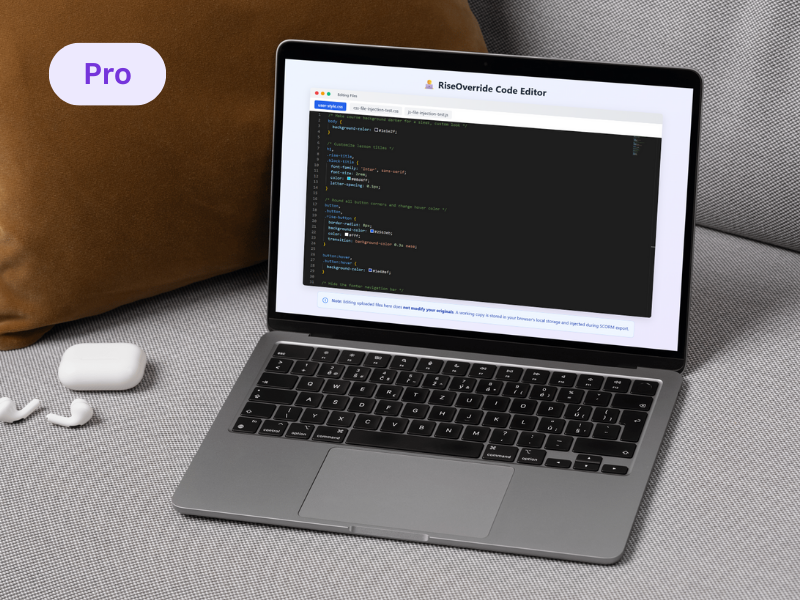
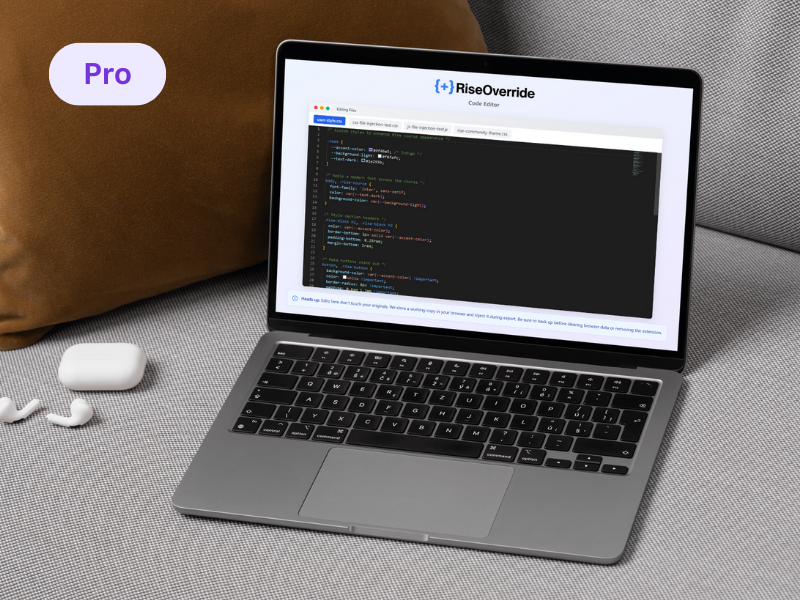
Updates to roadmap section for clarity. Added Community Pro feature, updated graphic for Code Editor with new branding.

Changed region(s): [[0.375, 0.12, 0.8438, 0.57]]

diff --git a/index.html b/index.html
@@ -151,7 +151,7 @@
       <p class="text-lg text-slate-300 mb-12">
         Built for power users who want deeper control and time-saving tools.
       </p>
-      <div class="grid sm:grid-cols-2 gap-8">
+      <div class="grid sm:grid-cols-3 gap-8">
         <!-- Feature 1 -->
         <div class="bg-slate-800 rounded-lg overflow-hidden shadow-md">
           <img src="RiseOverRide-Code-Editor.png" alt="Advanced Code Editor" class="w-full h-auto" loading="lazy" />
@@ -176,6 +176,25 @@
             </p>
           </div>
         </div>
+
+        <!-- Feature 3 -->
+        <div class="bg-slate-800 rounded-lg overflow-hidden shadow-md relative">
+          <img src="RiseOverRide-Community.png" alt="Community Styles" class="w-full h-auto opacity-90"
+            loading="lazy" />
+          <div class="p-6 text-left">
+            <h3 class="text-xl font-semibold mb-2">Community Style Library <span class="text-xs text-yellow-400">(Coming
+                Soon)</span></h3>
+            <p class="text-sm text-slate-300">
+              A growing library of user-submitted themes to instantly style your Rise courses. Submissions are open now—
+              verified contributors receive 1 month of Pro Mode free.
+            </p>
+            <a href="https://forms.gle/ZtkSFNDe9Uwymi8N7" target="_blank"
+              class="inline-block mt-4 text-sm font-medium text-blue-400 hover:underline">
+              Submit Your Style →
+            </a>
+            <p class="text-xs text-slate-500 mt-2 italic">Download access coming soon for Pro users</p>
+          </div>
+        </div>
       </div>
       <p class="text-sm text-slate-400 mt-6">Included with Pro Mode · Early access pricing available now</p>
     </div>
@@ -189,12 +208,11 @@
         <p class="text-slate-500 mb-2 font-medium">We're building even more ways to make RiseOverride powerful and
           flexible:</p>
         <ul class="list-disc list-inside text-slate-600 space-y-1">
-          <li>Cloud storage and sync</li>
-          <li>Drag-and-drop folder uploads</li>
-          <li>Media file support (images, audio, video)</li>
-          <li>Optional sign-in with Google, Microsoft, or email</li>
-          <li>Live preview for CSS styles</li>
-          <li>Reusable custom blocks</li>
+          <li><strong>Storage & Sync:</strong> Cloud storage and sync, Drag-and-drop folder uploads</li>
+          <li><strong>Media:</strong> Support for images, audio, and video files</li>
+          <li><strong>Customization Tools:</strong> Live preview for custom CSS, Add classes to blocks, Prebuilt custom
+            block templates</li>
+          <li><strong>Account Features:</strong> Sign in with Google, Microsoft, or email</li>
         </ul>
         <p class="text-xs text-slate-400 italic pt-2">Subject to change based on early access feedback.</p>
       </div>
@@ -295,15 +313,18 @@
           class="text-slate-500 hover:text-black text-xl font-bold">&times;</button>
       </div>
       <div class="p-6 pt-4 max-h-[75vh] overflow-y-auto">
-        <p class="text-sm mb-3">Last updated: May 25, 2025</p>
-        <p class="text-sm mb-4">At Override Labs, your privacy is important to us. This policy explains how we collect
-          and
-          use your data through the RiseOverride Chrome Extension and our website, overridelabs.ca.</p>
+        <p class="text-sm mb-3">Last updated: May 26, 2025</p>
+        <p class="text-sm mb-4">
+          At Override Labs, your privacy is important to us. This policy explains how we collect and use your data
+          through the RiseOverride Chrome Extension and our website, overridelabs.ca.
+        </p>
 
         <h3 class="text-lg font-semibold mt-6 mb-2">1. What We Collect</h3>
-        <p class="text-sm mb-4">We do not collect personal data by default. If you use Pro Mode or send feedback, you
-          may
-          voluntarily provide your email address. This is only used for licensing and support.</p>
+        <p class="text-sm mb-4">
+          We do not collect personal data by default. If you use Pro Mode, submit community content, or send feedback,
+          you may voluntarily provide your email address. This is only used for licensing, communication, or support
+          purposes.
+        </p>
 
         <h3 class="text-lg font-semibold mt-6 mb-2">2. Chrome Extension Permissions</h3>
         <ul class="text-sm list-disc list-inside space-y-2 mb-4">
@@ -314,23 +335,42 @@
         </ul>
 
         <h3 class="text-lg font-semibold mt-6 mb-2">3. Pro Mode Licensing & Payments</h3>
-        <p class="text-sm mb-4">Pro Mode requires an email address for license management. Subscription payments are
-          processed via Stripe. We do not store or process payment details—Stripe handles this according to their own <a
-            href="https://stripe.com/privacy" target="_blank" class="text-blue-500 underline">privacy policy</a>.</p>
+        <p class="text-sm mb-4">
+          Pro Mode requires an email address for license management. Subscription payments are processed via Stripe. We
+          do not store or process payment details—Stripe (and its subsidiaries, including LemonSqueezy) handle this
+          according to their own <a href="https://stripe.com/privacy" target="_blank"
+            class="text-blue-500 underline">privacy policy</a>.
+        </p>
+        <p class="text-sm mb-4">
+          In preparation for our upcoming migration to LemonSqueezy licensing, we may collect your license number and
+          email address through a secure form to ensure uninterrupted access. This information is only used to verify
+          and transfer your existing Pro Mode access.
+        </p>
 
         <h3 class="text-lg font-semibold mt-6 mb-2">4. Website Analytics</h3>
-        <p class="text-sm mb-4">We use basic website analytics to understand traffic patterns. This data is anonymized
-          and
-          used solely for internal purposes.</p>
+        <p class="text-sm mb-4">
+          We use Cloudflare Web Analytics on our website (overridelabs.ca) to understand traffic patterns. This data is
+          anonymized and used solely for internal insights. No tracking occurs inside the RiseOverride Chrome Extension
+          itself.
+        </p>
 
-        <h3 class="text-lg font-semibold mt-6 mb-2">5. Policy Updates</h3>
-        <p class="text-sm mb-4">We may update this policy as new features are released. Check back regularly for the
-          most
-          recent version.</p>
+        <h3 class="text-lg font-semibold mt-6 mb-2">5. Community Submissions</h3>
+        <p class="text-sm mb-4">
+          If you submit a custom CSS style for inclusion in the Community Style Library, we require your email address
+          as part of the Google Forms submission process. This is a platform requirement and is only used to contact you
+          about your submission and grant free Pro Mode access if approved.
+        </p>
 
-        <h3 class="text-lg font-semibold mt-6 mb-2">6. Contact</h3>
-        <p class="text-sm">Have questions? Contact us at <a href="mailto:info@overridelabs.ca"
-            class="text-blue-500 underline">info@overridelabs.ca</a></p>
+        <h3 class="text-lg font-semibold mt-6 mb-2">6. Policy Updates</h3>
+        <p class="text-sm mb-4">
+          We may update this policy as new features are released. Check back regularly for the most recent version.
+        </p>
+
+        <h3 class="text-lg font-semibold mt-6 mb-2">7. Contact</h3>
+        <p class="text-sm">
+          Have questions? Contact us at <a href="mailto:info@overridelabs.ca"
+            class="text-blue-500 underline">info@overridelabs.ca</a>
+        </p>
       </div>
     </div>
   </div>
